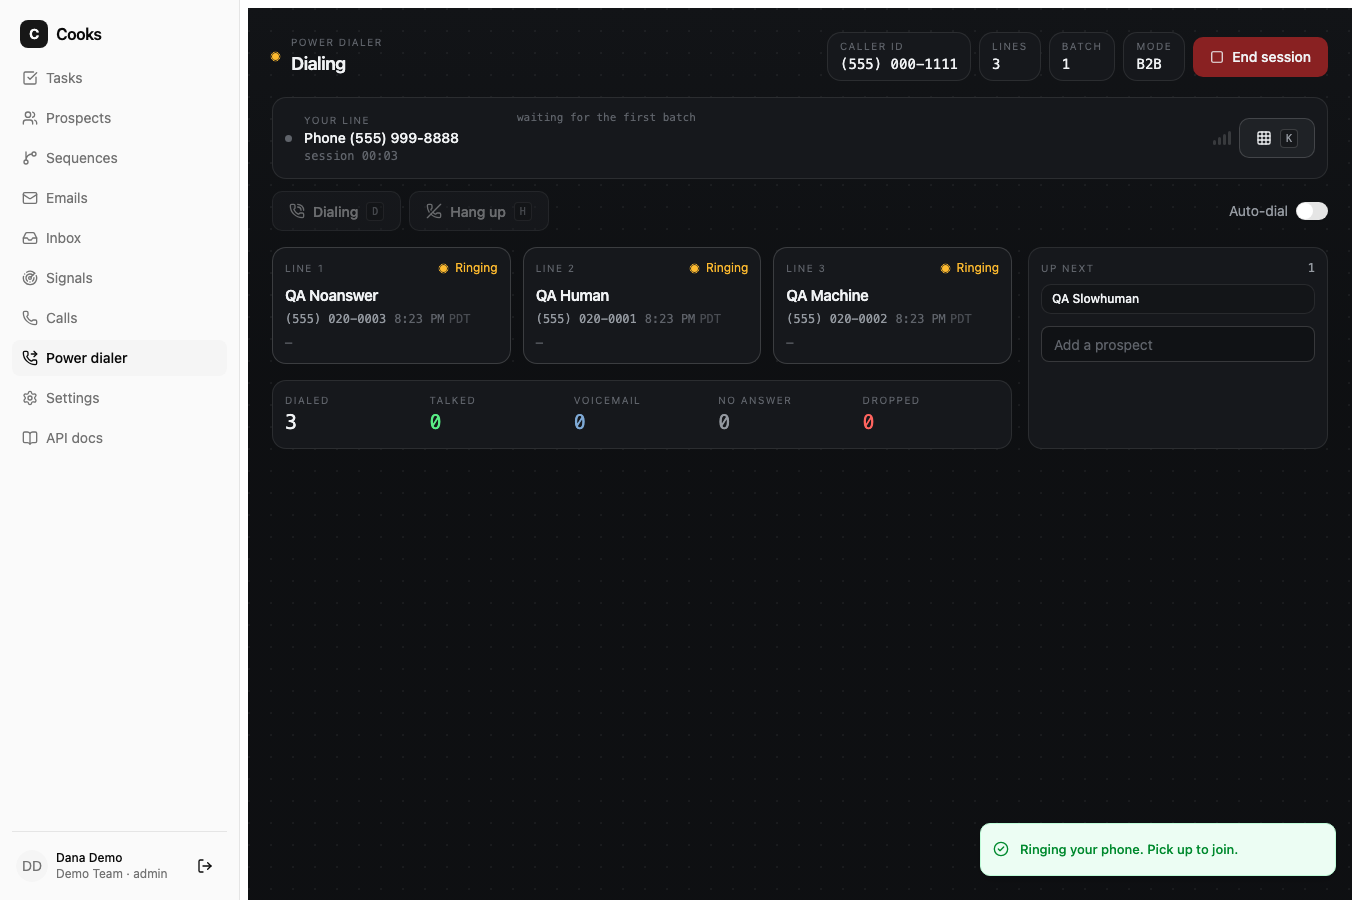
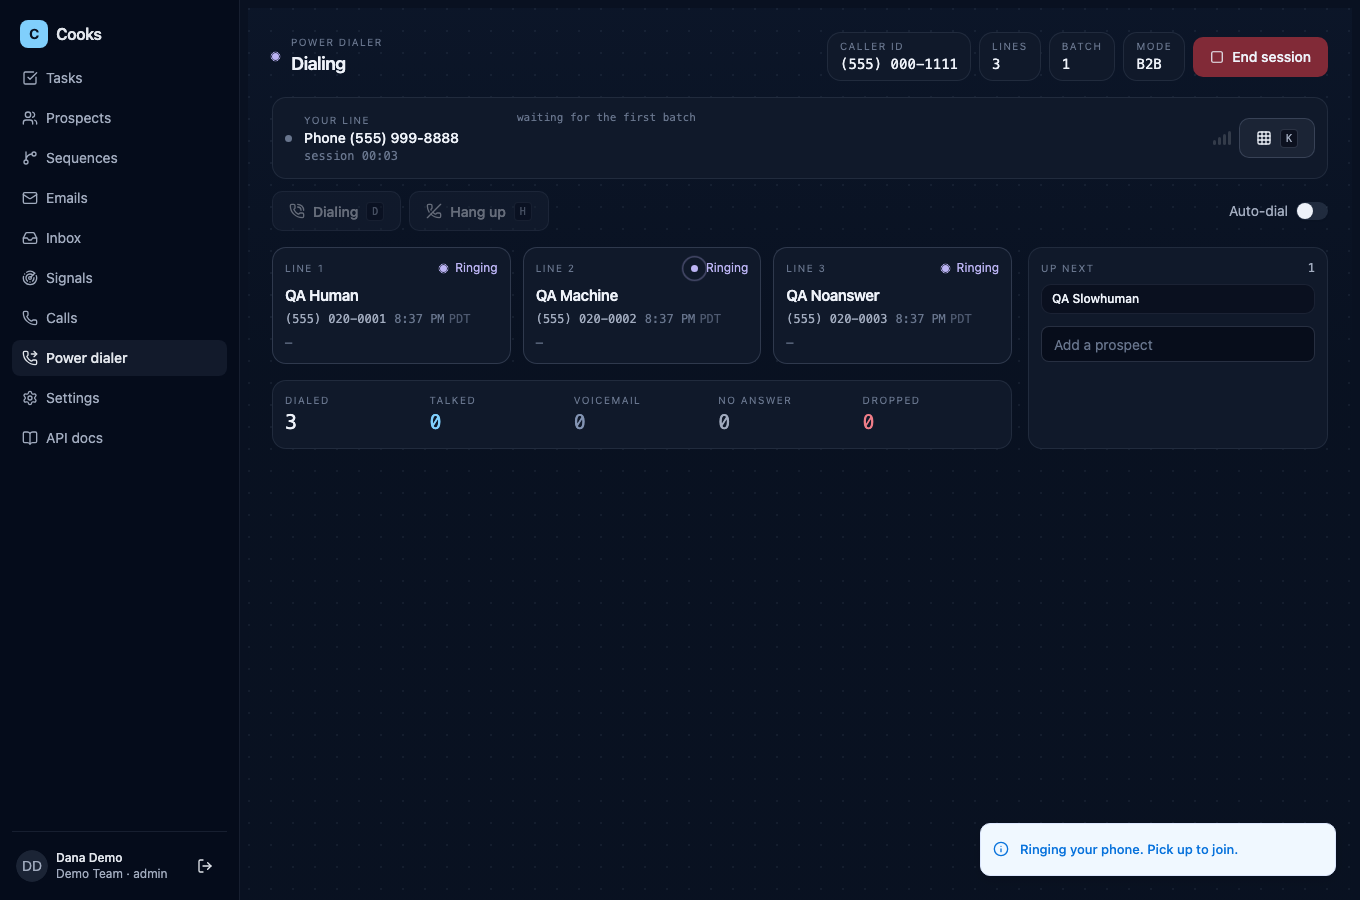
Power dialer: midnight-blue palette, shell tinted to match while the dialer is open
One hue family on screen: navy surfaces, ice-blue accent for live, periwinkle for
ringing, slate for voicemail, rose only for drop/hang up. The app shell (sidebar,
cards, inputs) takes the same tokens via a cockpit-mode class on the dialer route,
so the page no longer sits as a black console inside a white app. Scope traces read
their colors from the tokens; dialer toasts use the neutral tone.

Claude-Session: https://claude.ai/code/session_01UhScsnoQuoH65twdnt3Bah

diff --git a/apps/web/src/styles.css b/apps/web/src/styles.css
@@ -119,27 +119,57 @@
   }
 }
 
-/* ---------- dialer cockpit: a dark instrument console, one accent, motion only on live elements ---------- */
+/* ---------- dialer cockpit: a midnight console, one blue accent, motion only on live elements ---------- */
 .cockpit {
-  --ck-bg: oklch(0.17 0.006 260);
-  --ck-surface: oklch(0.21 0.007 260);
-  --ck-raised: oklch(0.25 0.008 260);
-  --ck-line: oklch(1 0 0 / 9%);
-  --ck-line-strong: oklch(1 0 0 / 16%);
-  --ck-text: oklch(0.96 0.003 260);
-  --ck-dim: oklch(0.68 0.012 260);
-  --ck-faint: oklch(0.5 0.012 260);
-  --ck-live: oklch(0.84 0.19 150);
-  --ck-live-dim: oklch(0.84 0.19 150 / 18%);
-  --ck-ring: oklch(0.83 0.16 80);
-  --ck-ring-dim: oklch(0.83 0.16 80 / 16%);
-  --ck-drop: oklch(0.7 0.19 25);
-  --ck-vm: oklch(0.72 0.08 250);
+  --ck-bg: oklch(0.18 0.035 262);
+  --ck-surface: oklch(0.215 0.035 262);
+  --ck-raised: oklch(0.26 0.035 262);
+  --ck-line: oklch(0.85 0.05 262 / 10%);
+  --ck-line-strong: oklch(0.85 0.05 262 / 18%);
+  --ck-text: oklch(0.96 0.01 262);
+  --ck-dim: oklch(0.74 0.03 262);
+  --ck-faint: oklch(0.56 0.04 262);
+  --ck-live: oklch(0.82 0.1 235);
+  --ck-live-dim: oklch(0.82 0.1 235 / 16%);
+  --ck-ring: oklch(0.8 0.09 290);
+  --ck-ring-dim: oklch(0.8 0.09 290 / 16%);
+  --ck-drop: oklch(0.72 0.14 15);
+  --ck-vm: oklch(0.66 0.05 262);
   color: var(--ck-text);
   background:
-    radial-gradient(circle at 1px 1px, oklch(1 0 0 / 5%) 1px, transparent 0) 0 0 / 22px 22px,
-    linear-gradient(180deg, oklch(0.19 0.007 260), var(--ck-bg) 40%);
+    radial-gradient(circle at 1px 1px, oklch(0.9 0.05 262 / 6%) 1px, transparent 0) 0 0 / 22px 22px,
+    linear-gradient(180deg, oklch(0.2 0.04 262), var(--ck-bg) 40%);
   font-variant-numeric: tabular-nums;
+}
+/* While the dialer is open the whole shell takes the same midnight surface, so there is one palette on screen. */
+:root.cockpit-mode {
+  --background: oklch(0.18 0.035 262);
+  --foreground: oklch(0.96 0.01 262);
+  --card: oklch(0.215 0.035 262);
+  --card-foreground: oklch(0.96 0.01 262);
+  --popover: oklch(0.215 0.035 262);
+  --popover-foreground: oklch(0.96 0.01 262);
+  --primary: oklch(0.82 0.1 235);
+  --primary-foreground: oklch(0.18 0.035 262);
+  --secondary: oklch(0.26 0.035 262);
+  --secondary-foreground: oklch(0.96 0.01 262);
+  --muted: oklch(0.26 0.035 262);
+  --muted-foreground: oklch(0.74 0.03 262);
+  --accent: oklch(0.26 0.035 262);
+  --accent-foreground: oklch(0.96 0.01 262);
+  --destructive: oklch(0.72 0.14 15);
+  --border: oklch(0.85 0.05 262 / 10%);
+  --input: oklch(0.85 0.05 262 / 16%);
+  --ring: oklch(0.82 0.1 235);
+  --sidebar: oklch(0.155 0.035 262);
+  --sidebar-foreground: oklch(0.92 0.01 262);
+  --sidebar-primary: oklch(0.82 0.1 235);
+  --sidebar-primary-foreground: oklch(0.18 0.035 262);
+  --sidebar-accent: oklch(0.22 0.035 262);
+  --sidebar-accent-foreground: oklch(0.96 0.01 262);
+  --sidebar-border: oklch(0.85 0.05 262 / 10%);
+  --sidebar-ring: oklch(0.82 0.1 235);
+  color-scheme: dark;
 }
 .ck-label {
   font-size: 10px;
@@ -196,7 +226,7 @@
   content: '';
   position: absolute;
   inset: 0;
-  background: linear-gradient(90deg, transparent, oklch(0.84 0.19 150 / 7%), transparent);
+  background: linear-gradient(90deg, transparent, oklch(0.82 0.1 235 / 8%), transparent);
   transform: translateX(-100%);
   animation: ck-scan 2.4s linear infinite;
   pointer-events: none;
@@ -218,13 +248,13 @@
   font-weight: 500;
   transition: background 120ms, border-color 120ms, transform 80ms;
 }
-.ck-btn:hover:not(:disabled) { background: oklch(0.3 0.008 260); }
+.ck-btn:hover:not(:disabled) { background: oklch(0.31 0.035 262); }
 .ck-btn:active:not(:disabled) { transform: translateY(1px); }
 .ck-btn:disabled { opacity: 0.4; cursor: not-allowed; }
-.ck-btn[data-tone='live'] { background: var(--ck-live); color: oklch(0.15 0 0); border-color: transparent; }
-.ck-btn[data-tone='live']:hover:not(:disabled) { background: oklch(0.88 0.19 150); }
-.ck-btn[data-tone='drop'] { background: oklch(0.42 0.14 25); border-color: transparent; }
-.ck-btn[data-tone='drop']:hover:not(:disabled) { background: oklch(0.48 0.16 25); }
+.ck-btn[data-tone='live'] { background: var(--ck-live); color: oklch(0.18 0.035 262); border-color: transparent; }
+.ck-btn[data-tone='live']:hover:not(:disabled) { background: oklch(0.86 0.1 235); }
+.ck-btn[data-tone='drop'] { background: oklch(0.42 0.12 15); border-color: transparent; }
+.ck-btn[data-tone='drop']:hover:not(:disabled) { background: oklch(0.48 0.14 15); }
 .ck-kbd {
   font-family: ui-monospace, SFMono-Regular, Menlo, monospace;
   font-size: 10px;
@@ -232,14 +262,14 @@
   border-radius: 4px;
   border: 1px solid var(--ck-line-strong);
   color: var(--ck-dim);
-  background: oklch(0 0 0 / 25%);
+  background: oklch(0.12 0.03 262 / 60%);
 }
 .ck-input {
   height: 2.25rem;
   width: 100%;
   border-radius: 8px;
   border: 1px solid var(--ck-line-strong);
-  background: oklch(0 0 0 / 25%);
+  background: oklch(0.12 0.03 262 / 60%);
   color: var(--ck-text);
   padding: 0 0.75rem;
   font-size: 0.875rem;
@@ -249,7 +279,7 @@
 .ck-row {
   border: 1px solid var(--ck-line);
   border-radius: 10px;
-  background: oklch(0 0 0 / 14%);
+  background: oklch(0.12 0.03 262 / 45%);
 }
 .ck-row[data-picked='true'] { border-color: var(--ck-live); background: var(--ck-live-dim); }
 .ck-row:hover { border-color: var(--ck-line-strong); }

diff --git a/apps/web/src/pages/PowerDialer.tsx b/apps/web/src/pages/PowerDialer.tsx
@@ -65,7 +65,7 @@ export function PowerDialer() {
       const r = await api<{ data: Session }>('/v1/dialSessions', { method: 'POST', json: { data: input } });
       setSession(r.data);
       if (input.repMode === 'browser' && r.data.connectParams) await dialer.joinConference(r.data.connectParams);
-      toast(input.repMode === 'browser' ? 'You are on the line. Dial when ready.' : 'Ringing your phone. Pick up to join.');
+      toast(input.repMode === 'browser' ? 'You are on the line. Dial when ready.' : 'Ringing your phone. Pick up to join.', 'info');
     } catch (e: any) {
       toast(e.message, 'error');
     } finally {
@@ -138,7 +138,7 @@ export function PowerDialer() {
         <PageHeader title="Power dialer" description="Several lines ring at once; the first person who answers is on with you instantly." />
         <div className="rounded-lg border p-4" data-testid="compliance-gate">
           <div className="flex items-center gap-2 font-medium">
-            <AlertTriangle className="size-4 text-amber-600" /> An admin needs to confirm the compliance mode
+            <AlertTriangle className="size-4 text-muted-foreground" /> An admin needs to confirm the compliance mode
           </div>
           <p className="mt-1 text-sm text-muted-foreground">
             When two people answer at once, the second one is dropped. For calls to consumers in the US that counts as an abandoned call under the FTC Telemarketing Sales Rule, so an admin chooses B2B or consumer mode and confirms it under <Link to="/settings?tab=dialer" className="underline">Settings → Dialer</Link> first.
@@ -474,7 +474,7 @@ function LogForm({ line, wrapping, onLogged }: { line: Line; wrapping: boolean; 
     try {
       await api(`/v1/calls/${line.callId}/actions/log`, { method: 'POST', json: { data: { outcome, notes: notes || undefined } } });
       setLogged(line.id);
-      toast('Call logged');
+      toast('Call logged', 'info');
       onLogged();
     } catch (e: any) {
       toast(e.message, 'error');

diff --git a/apps/web/src/components/cockpit.tsx b/apps/web/src/components/cockpit.tsx
@@ -44,6 +44,9 @@ export function Scope({ levels, active, className, height = 56 }: { levels: Reac
     let frame = 0;
     let raf = 0;
     const reduced = window.matchMedia('(prefers-reduced-motion: reduce)').matches;
+    const css = getComputedStyle(el);
+    const accent = css.getPropertyValue('--ck-live').trim() || 'oklch(0.82 0.1 235)';
+    const pale = css.getPropertyValue('--ck-text').trim() || 'white';
     const draw = () => {
       const w = el.clientWidth;
       const h = height;
@@ -93,8 +96,10 @@ export function Scope({ levels, active, className, height = 56 }: { levels: Reac
         }
         ctx.stroke();
       };
-      trace(outHist, 'oklch(0.84 0.19 150)', 1.5);
-      trace(inHist, 'rgba(255,255,255,0.75)', 1);
+      trace(outHist, accent, 1.5);
+      ctx.globalAlpha = 0.75;
+      trace(inHist, pale, 1);
+      ctx.globalAlpha = 1;
       if (!reduced || fresh) raf = requestAnimationFrame(draw);
     };
     raf = requestAnimationFrame(draw);

diff --git a/apps/web/src/App.tsx b/apps/web/src/App.tsx
@@ -32,11 +32,15 @@ export function App() {
   }, [session, path]);
   useEffect(() => {
     const mq = window.matchMedia('(prefers-color-scheme: dark)');
-    const apply = () => document.documentElement.classList.toggle('dark', mq.matches);
+    const cockpit = path === '/dialer';
+    const apply = () => {
+      document.documentElement.classList.toggle('dark', mq.matches || cockpit);
+      document.documentElement.classList.toggle('cockpit-mode', cockpit);
+    };
     apply();
     mq.addEventListener('change', apply);
     return () => mq.removeEventListener('change', apply);
-  }, []);
+  }, [path]);
 
   if (session === undefined || auth === null) return <main className="p-8 text-sm text-muted-foreground">Loading…</main>;
   if (!session || path === '/login') {
